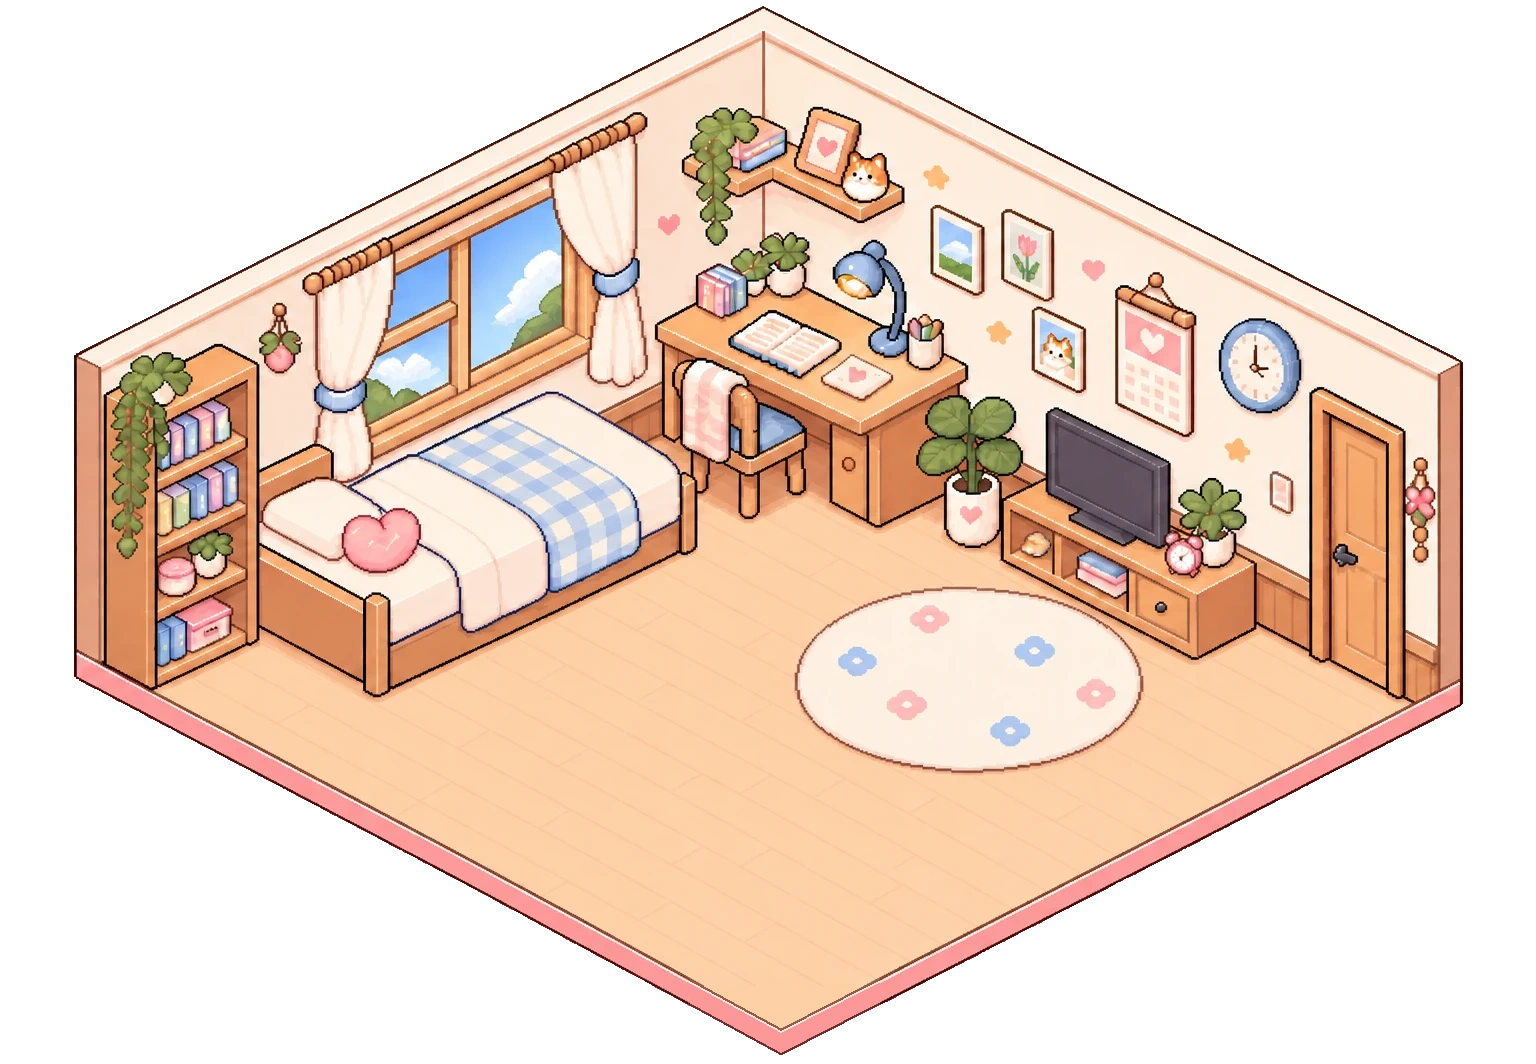
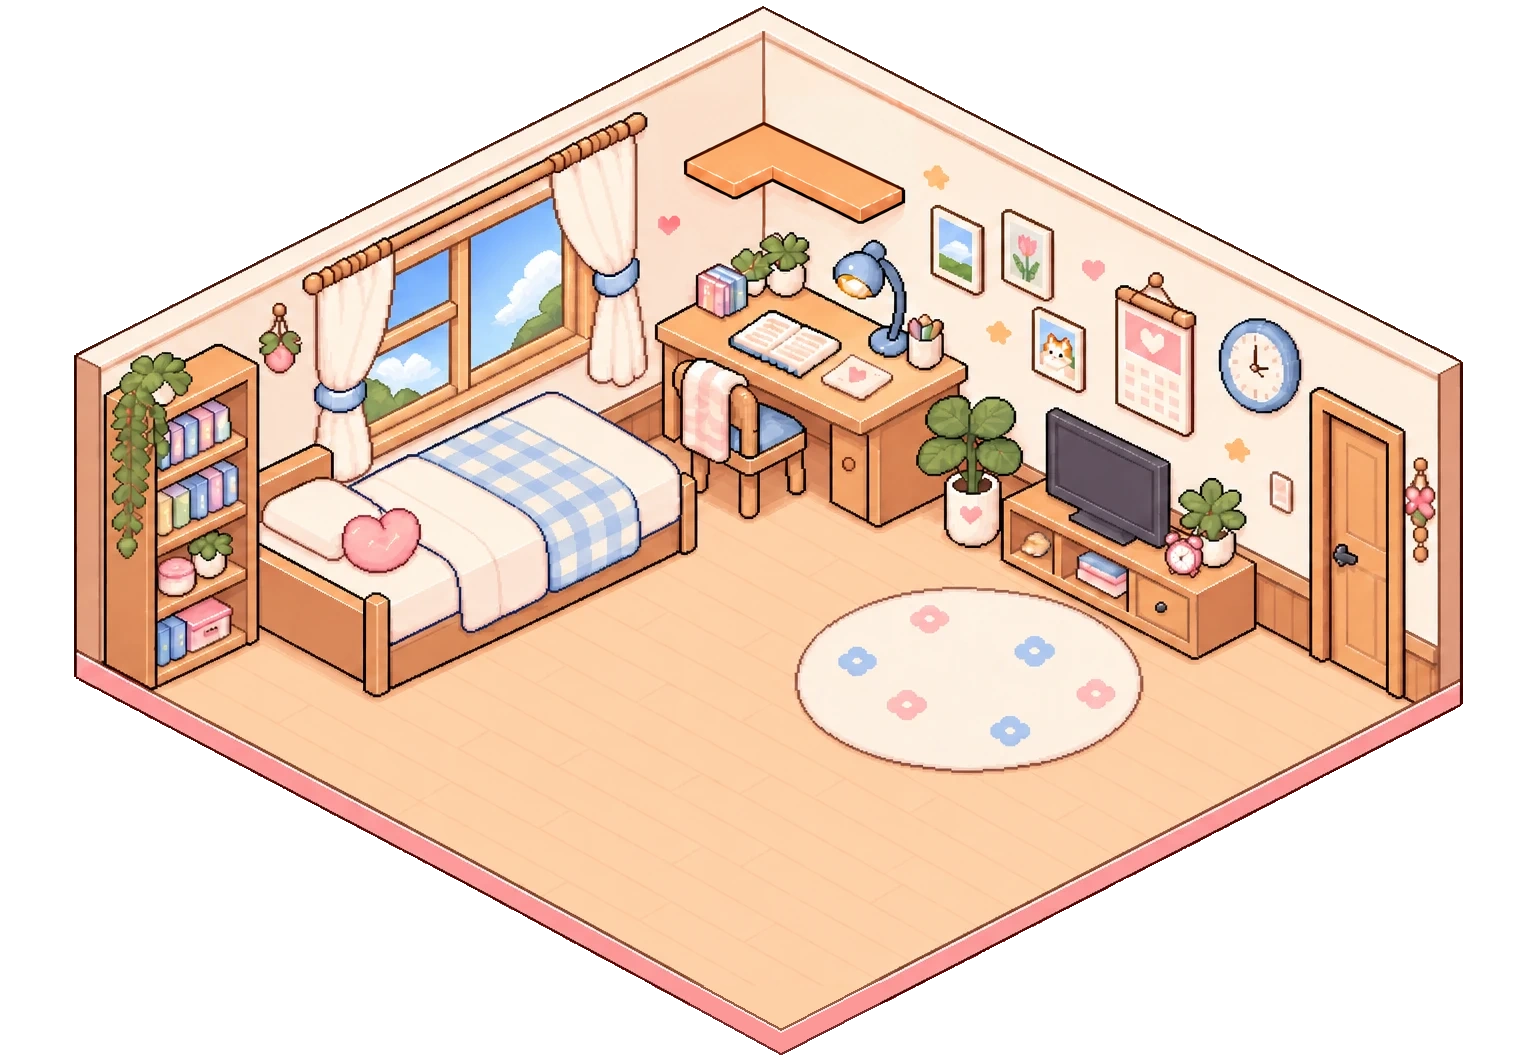
Empty the wall shelf above the desk by default
- room_pixel.py pastes the shelf area from a cleared-shelf redraw
  (shelf_empty.png) with the wall tone matched at the seam
- The shelf is left empty so a photo set can appear there later as a
  Little Joys reward
- Room image is now room.webp?v=2 so old caches pick it up (0.0.55)

Claude-Session: https://claude.ai/code/session_01HNLjjDhwiWZnZmJhscAi2v

Changed region(s): [[0.4375, 0.093, 0.5938, 0.2481]]

diff --git a/public/room.js b/public/room.js
@@ -150,7 +150,7 @@ export class Room {
     const defs = el('defs', {}, svg);
     const rg = el('radialGradient', { id: 'room-glow' }, defs);
     el('stop', { offset: 0, 'stop-color': '#fff3b0', 'stop-opacity': .75 }, rg); el('stop', { offset: 1, 'stop-color': '#fff3b0', 'stop-opacity': 0 }, rg);
-    el('image', { href: `${BASE}pixel_room/room.webp`, x: 0, y: 0, width: W, height: H, style: 'image-rendering:pixelated' }, svg);
+    el('image', { href: `${BASE}pixel_room/room.webp?v=2`, x: 0, y: 0, width: W, height: H, style: 'image-rendering:pixelated' }, svg);
     this.tvOn = el('image', { href: `${BASE}pixel_room/tv_on.webp`, x: 1040, y: 405, width: 140, height: 145, class: 'room-fade', opacity: 0 }, svg);
     this.lamp = el('circle', { cx: 860, cy: 290, r: 120, fill: 'url(#room-glow)', class: 'room-fade', opacity: 0 }, svg);
     this.markers = el('g', {}, svg);

diff --git a/public/sw.js b/public/sw.js
@@ -1,5 +1,5 @@
 // 版本號：主.次.修（見 CLAUDE.md「版本號」）。改了任何檔案就把最後一位 +1，舊快取才會被清掉
-const VERSION = '0.0.54';
+const VERSION = '0.0.55';
 const CACHE = `lifelog-${VERSION}`;
 const ASSETS = [
   './',
@@ -90,7 +90,7 @@ const ASSETS = [
   './icons/icon-maskable-512.png',
   './icons/favicon-32.png',
   './logo.webp',
-  './room/pixel_room/room.webp',
+  './room/pixel_room/room.webp?v=2',
   './room/pixel_room/tv_on.webp',
   './room/pixel/body_sweater_back.webp?v=2',
   './room/pixel/body_sweater_front.webp?v=2',

diff --git a/art/tools/room_pixel.py b/art/tools/room_pixel.py
@@ -3,6 +3,8 @@
 - full.webp：擺好家具的完整房間（目前直接當房間背景）
 - small.webp：小物件（檯燈開／關、電視開機…），切出來疊在房間上
 GPT 的房間地板前角被畫布切掉一塊，這裡補成完整的菱形，畫布往下加高到 1064。
+層架：shelf_empty.png 是 GPT 改過「層架清空」的整張房間，只切層架那一塊貼回來（預設空層架，
+  拍照的小幸福累積到了才擺相機）；牆色用接縫附近的平均差校正。
 用法：python3 art/tools/room_pixel.py
 """
 from PIL import Image
@@ -40,9 +42,26 @@ def main():
     a = np.zeros((H, W, 4), np.uint8); a[:full.shape[0]] = full
     a[..., 3] = np.where(a[..., 3] >= 128, 255, 0)
     a = fix_corner(a)
+    a = empty_shelf(a)
     Image.fromarray(a).save(f'{OUT}/room.webp', quality=95, method=6)
     tv_on()
     print('room', a.shape)
+
+# 書桌上方 L 形層架上原本的東西（植物、書、相框、貓）的範圍，避開書桌上的盆栽和檯燈
+SHELF_POLY = [(662, 96), (915, 96), (915, 232), (850, 232), (812, 226), (735, 226), (732, 248), (700, 248), (700, 226), (662, 226)]
+def empty_shelf(a):
+    from PIL import ImageDraw, ImageFilter
+    b = np.zeros_like(a); src = np.array(Image.open(f'{SRC}/shelf_empty.png').convert('RGBA'))
+    b[:src.shape[0], :src.shape[1]] = src[:H, :W]
+    hard = Image.new('L', (W, H), 0); ImageDraw.Draw(hard).polygon(SHELF_POLY, fill=255)
+    hard = np.array(hard) > 0
+    from scipy import ndimage
+    ring = ndimage.binary_dilation(hard, iterations=4) & ~ndimage.binary_erosion(hard, iterations=4)
+    shift = (a[ring, :3].astype(float) - b[ring, :3]).mean(0)
+    b[..., :3] = np.clip(b[..., :3] + shift, 0, 255)
+    m = np.array(Image.fromarray((hard * 255).astype(np.uint8)).filter(ImageFilter.GaussianBlur(1.5)), float)[..., None] / 255
+    out = a.copy(); out[..., :3] = (b[..., :3] * m + a[..., :3] * (1 - m)).astype(np.uint8)
+    return out
 
 # 電視開機：把小物件圖裡電視的畫面，用仿射變換貼到房間電視的螢幕上（房間座標 TV_BOX）
 TV_BOX = (1040, 405, 140, 145)

diff --git a/CLAUDE.md b/CLAUDE.md
@@ -52,7 +52,7 @@
 ### 像素房間（`cyworld` 分支）
 
 - 素材 `art/source/room2/`：`full.webp` 完整房間（目前直接當背景）、`empty.webp` 空房間、`furniture.webp` 大型家具（床畫錯方向，之後從 full 切）、`small.webp` 小物件。
-- `python3 art/tools/room_pixel.py` → `public/room/pixel_room/room.webp`（地板前角補齊，畫布 1536×1064）、`tv_on.webp`（電視畫面用仿射貼到房間電視上）。
+- `python3 art/tools/room_pixel.py` → `public/room/pixel_room/room.webp`（地板前角補齊，畫布 1536×1064；書桌上方層架用 `shelf_empty.png` 清空，改了圖要把 room.js 和 sw.js 的 `room.webp?v=` +1）、`tv_on.webp`（電視畫面用仿射貼到房間電視上）。
 - `room.js`：地板 `O/EU/EV`、`BLOCKS`（家具佔的地板，u 沿右牆、v 沿左牆）、`HOTS` 都是照這張圖量的；換房間圖要一起重量。
 - 之後做金幣商店：空房間＋一件件家具疊上去。
 
